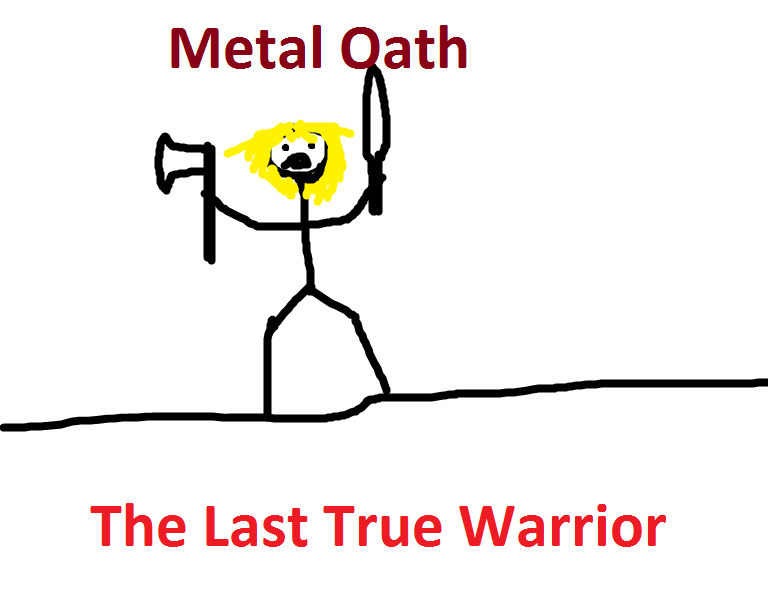
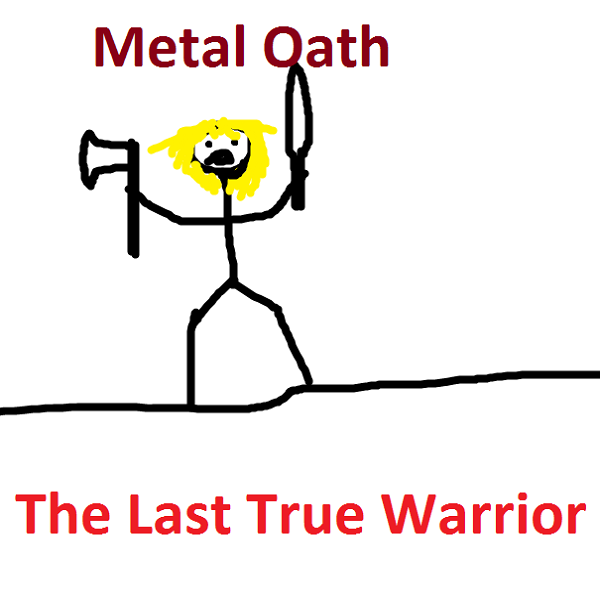
Added Media and Sign Up page.  Edited Home Page and Discography page.  Edited The Last True Warrior album cover.  Added Straight Out of Hell image, and pictures from their first two concerts.

diff --git a/public_html/Discography.html b/public_html/Discography.html
@@ -12,41 +12,46 @@
     <!--Centered-->
     <ul>
         <li>
-            <a href="">Discography</a>
+            <a href="index.html">Home Page</a>
         </li>
         
         <li>
-            <a href="">Upcoming Dates</a>
+            <a href="Discography.html">Discography</a>
         </li>
         
         <li>
-            <a href="">Members</a>
+            <a href="Upcoming%20Dates.html">Upcoming Dates</a>
         </li>
         
         <li>
-            <a href="">Media</a>
+            <a href="Members.html">Members</a>
         </li>
         
         <li>
-            <a href="">About</a>
+            <a href="Media.html">Media</a>
+        </li>
+        
+        <li>
+            <a href="About.html">About</a>
         </li>
     </ul>
 
     Metal Oath, the heavy metal band from Mason City, Iowa, has made their name in the community with their initial release in 2013, "The Last True Warrior".  Their next album, "Straight Out of Hell" is set for release on October 28th, 2016.
     <br>
-    <img src="TheLastTrueWarrior.png" alt="The Last True Warrior" height="500" width="500">
+    <img src="img/TheLastTrueWarrior.png" alt="The Last True Warrior" height="600" width="600">
     <br>
-        <table border="">
+        <table border="1">
             <thead>
-            <tr><th>The Last True Warrior</th></tr>
+            <tr>
+                <th>The Last True Warrior</th>
+                <th></th>
+            </tr>
             </thead>
-            <thead>
+            <tbody>
                 <tr>
                     <th>Song Name</th>
                     <th>Song Length</th>
                 </tr>
-            </thead>
-            <tbody>
                 <tr>
                     <td>Sticks and Stones</td>
                     <td>1:45</td>
@@ -74,19 +79,23 @@
             </tbody>
             <tfoot>
                 <tr>
+                    <td></td>
                     <td><b>28:56</b></td>
-                    <td>
         </table>
-    Straight Out Of Hell
     <br>
-        <table border="">
+    <img src="img/StraightOutOfHell.png" alt="Straight Out Of Hell" height="600" width="600">
+        <table border="1">
             <thead>
                 <tr>
-                    <th>Song Name</th>
-                    <th>Song Length</th>
+                    <th>Straight Out Of Hell</th>
+                    <th></th>
                 </tr>
             </thead>
             <tbody>
+                <tr>
+                    <td>Song Name</td>
+                    <td>Song Length</td>
+                </tr>
                 <tr>
                     <td>Straight Out Of Hell</td>
                     <td>4:36</td>
@@ -127,9 +136,15 @@
                 </tr>
             </tfoot>
         </table>
+    
+    
     <footer>
-    <a href="../user/sign_up.html">Sign Up</a>
-    <a href="../user/log_in.html">Log In</a>
+    <br>
+    <br>
+    <br>
+    <br>
+    <a href="sign_up.html">Sign Up</a>
+    <a href="log_in.html">Log In</a>
     </footer>
 </body>
 </html>

diff --git a/public_html/Media.html b/public_html/Media.html
@@ -1,0 +1,68 @@
+<!DOCTYPE html>
+
+<html lang="en">
+<head>
+    <meta charset="utf-8">
+    
+    <title>Media</title>
+</head>
+
+<!-- Tyler is responsible for this page-->
+<!-- Media Page -->
+
+<body>
+    <h1>Metal Oath</h1>
+    <!--Centered-->
+    <ul>
+        <li>
+            <a href="index.html">Home Page</a>
+        </li>
+        
+        <li>
+            <a href="Discography.html">Discography</a>
+        </li>
+        
+        <li>
+            <a href="Upcoming%20Dates.html">Upcoming Dates</a>
+        </li>
+        
+        <li>
+            <a href="Members.html">Members</a>
+        </li>
+        
+        <li>
+            <a href="Media.html">Media</a>
+        </li>
+        
+        <li>
+            <a href="About.html">About</a>
+        </li>
+    </ul>
+    
+    <h2>Pictures</h2>
+    <br>
+    <img src="img/concertpic1.png">
+    <br>
+    Metal Oath at Saint Charles Old Settlers Reunion, 2016
+    <br>
+    <img src="img/concertpic2.png">
+    <br>
+    Metal Oath at Vaudeville Mews, 2016
+    
+    <h2>Audio</h2>
+    <br>
+    <audio controls>
+        <source src="radiointerview.mp3" type="audio/mpeg">
+    </audio>
+    <br>
+    Radio interview with Morning Moose on LAZER 103.3.
+    
+    <footer>
+    <br>
+    <br>
+    <br>
+    <br>
+    <a href="sign_up.html">Sign Up</a>
+    <a href="log_in.html">Log In</a>
+    </footer>
+    

diff --git a/public_html/index.html b/public_html/index.html
@@ -1,0 +1,57 @@
+<!DOCTYPE html>
+
+<html lang="en">
+<head>
+    <meta charset="utf-8">
+    
+    <title>Welcome To Metal Oath</title>
+</head>
+
+<!--Tyler is navigator-->
+<!--Home-->
+
+<body>
+    <h1>Metal Oath</h1>
+    <!--Centered-->
+    <ul>
+        <li>
+            <a href="index.html">Home Page</a>
+        </li>
+        
+        <li>
+            <a href="Discography.html">Discography</a>
+        </li>
+        
+        <li>
+            <a href="Upcoming%20Dates.html">Upcoming Dates</a>
+        </li>
+        
+        <li>
+            <a href="Members.html">Members</a>
+        </li>
+        
+        <li>
+            <a href="Media.html">Media</a>
+        </li>
+        
+        <li>
+            <a href="About.html">About</a>
+        </li>
+    </ul>
+    
+    <p>Metal Oath's upcoming album will be Straight Out of Hell featuring eight new songs.</p>
+    <!--image-->
+    <p>The newest released album from Metal Oath is <i>The Last True Warrior</i> including the instant classic, "The Hammer and the Anvil".</p>
+    <img src="img/TheLastTrueWarrior.png" alt="The Last True Warrior" border="1">
+    <br>
+    <p>Metal Oath will performing next at the Avenue of the Saints Amphitheater in Saint Charles, IA.</p>
+    <!--image-->
+    
+<footer>
+<br>
+<br>
+<br>
+<br>
+<a href="sign_up.html">Sign Up</a>
+<a href="log_in.html">Log In</a>
+</footer>

diff --git a/public_html/sign_up.html b/public_html/sign_up.html
@@ -1,0 +1,7 @@
+<!DOCTYPE HTML>
+
+<html lang="en">
+
+<html>
+
+</html>
